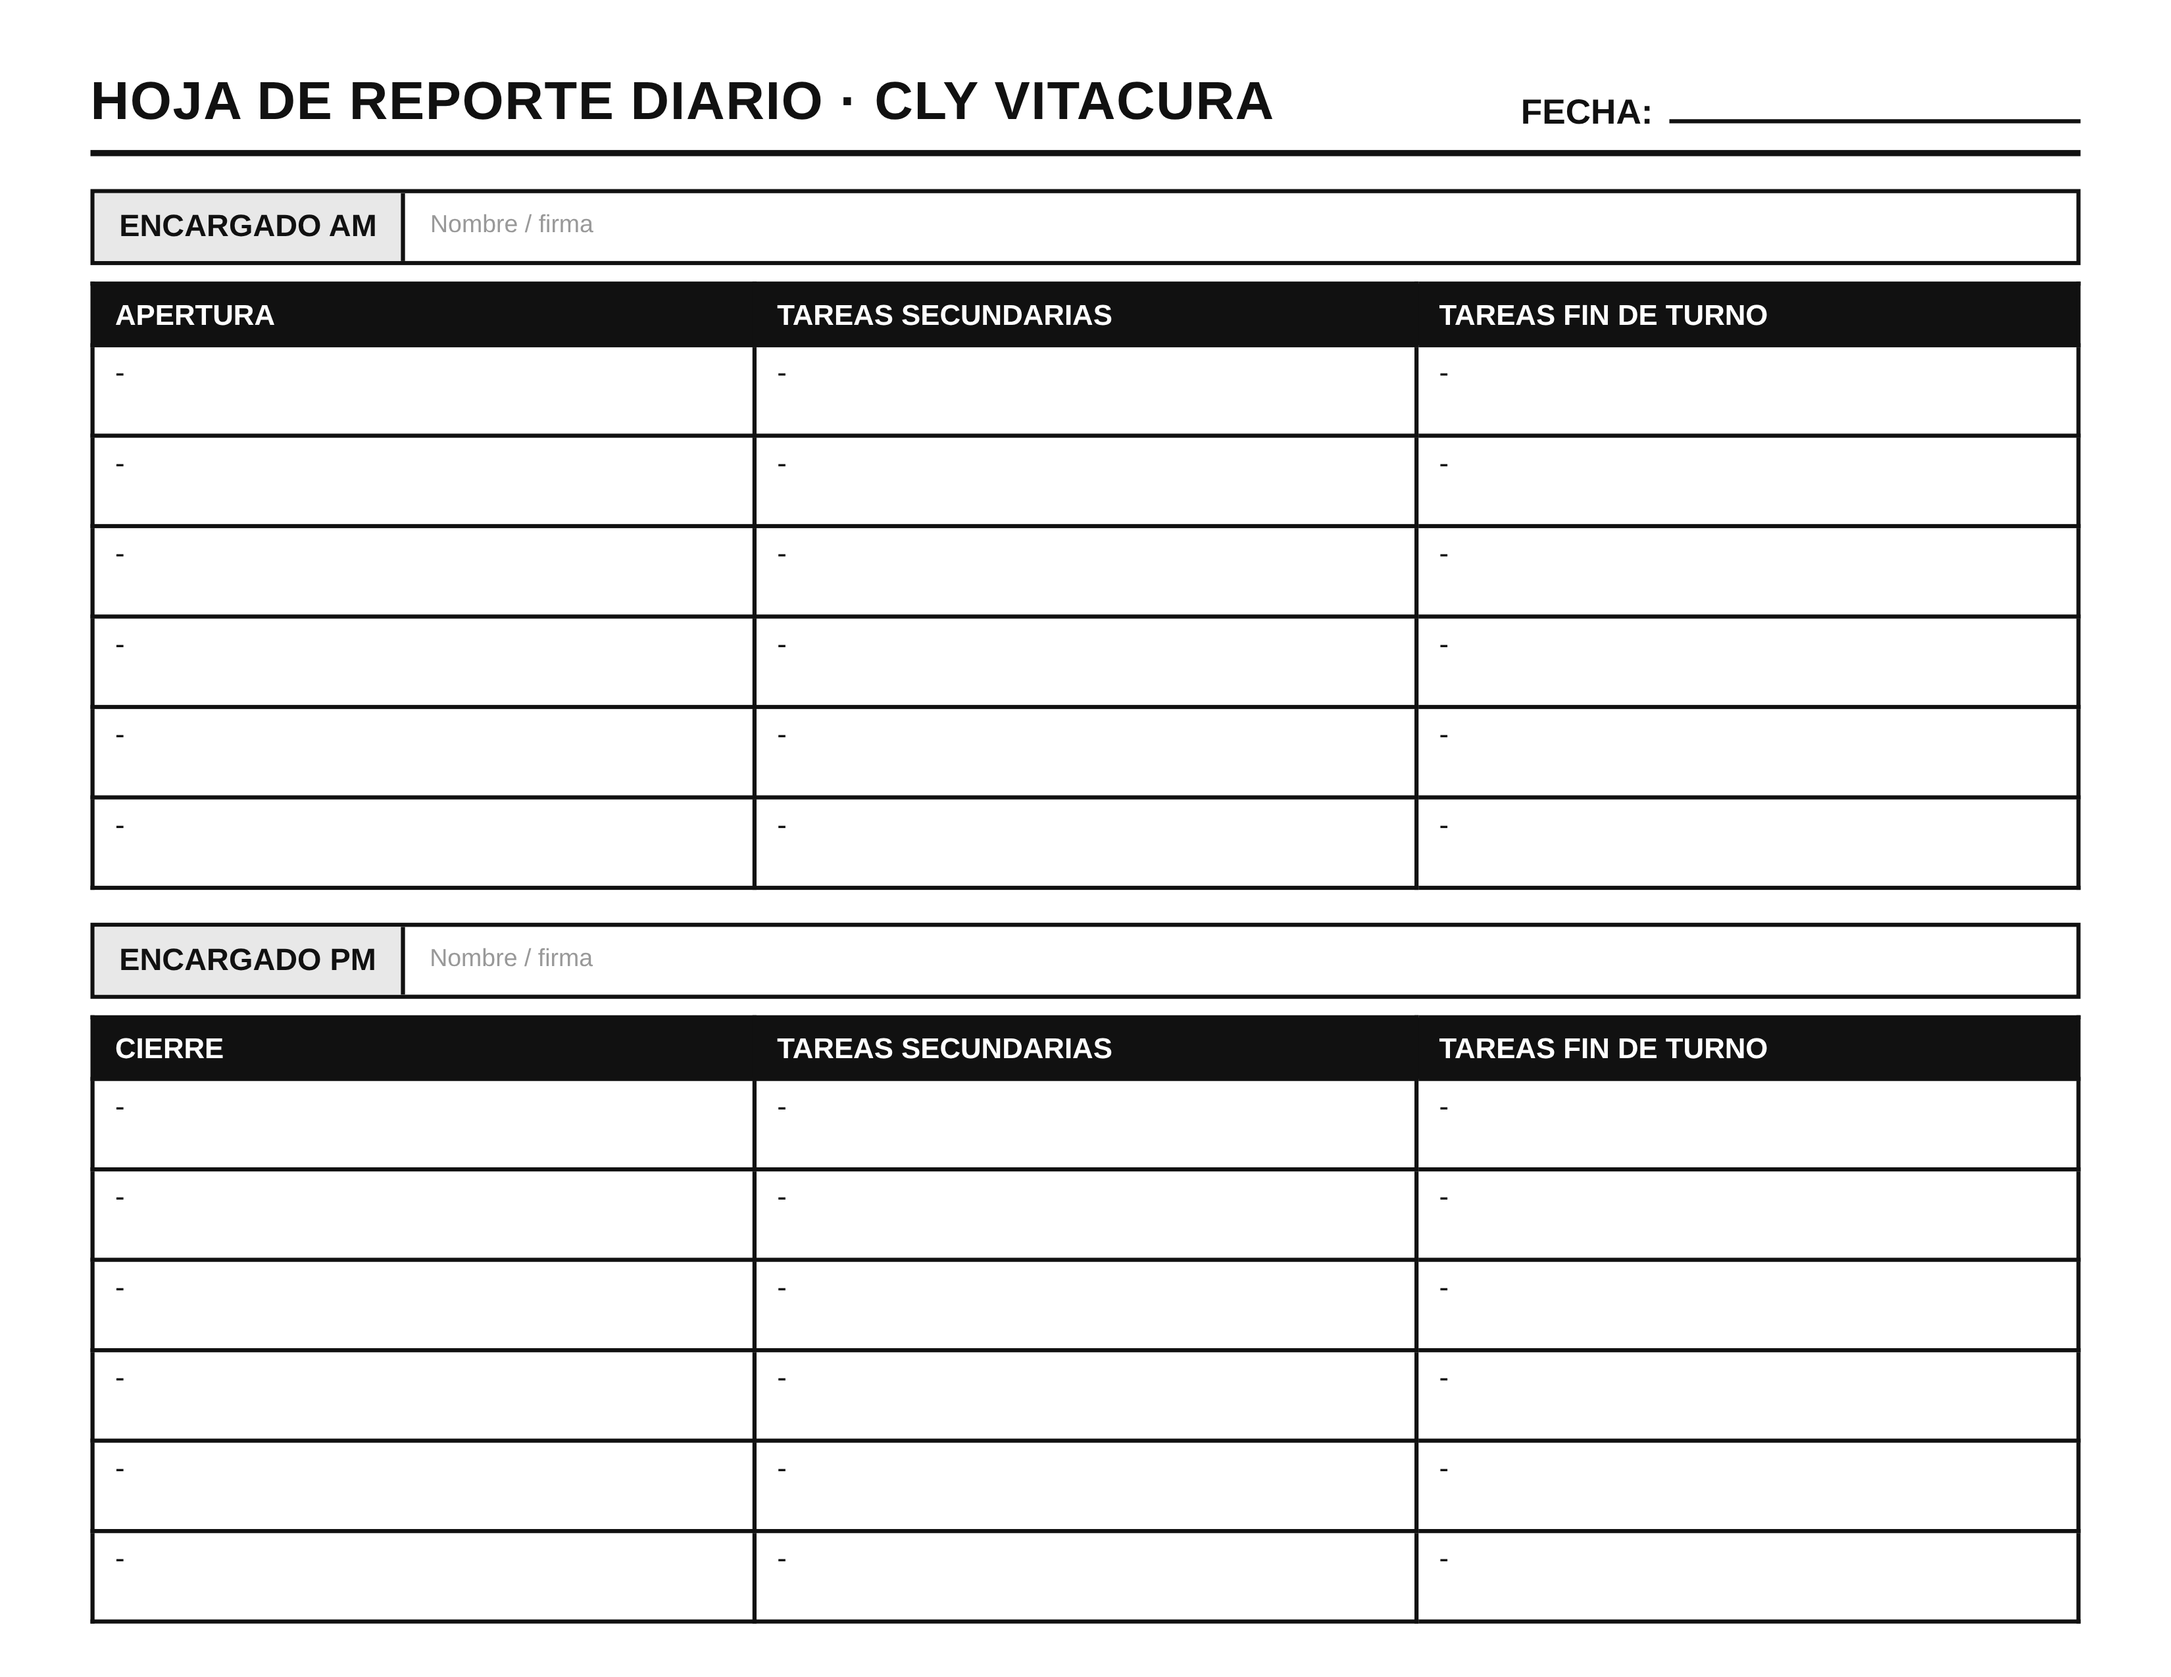
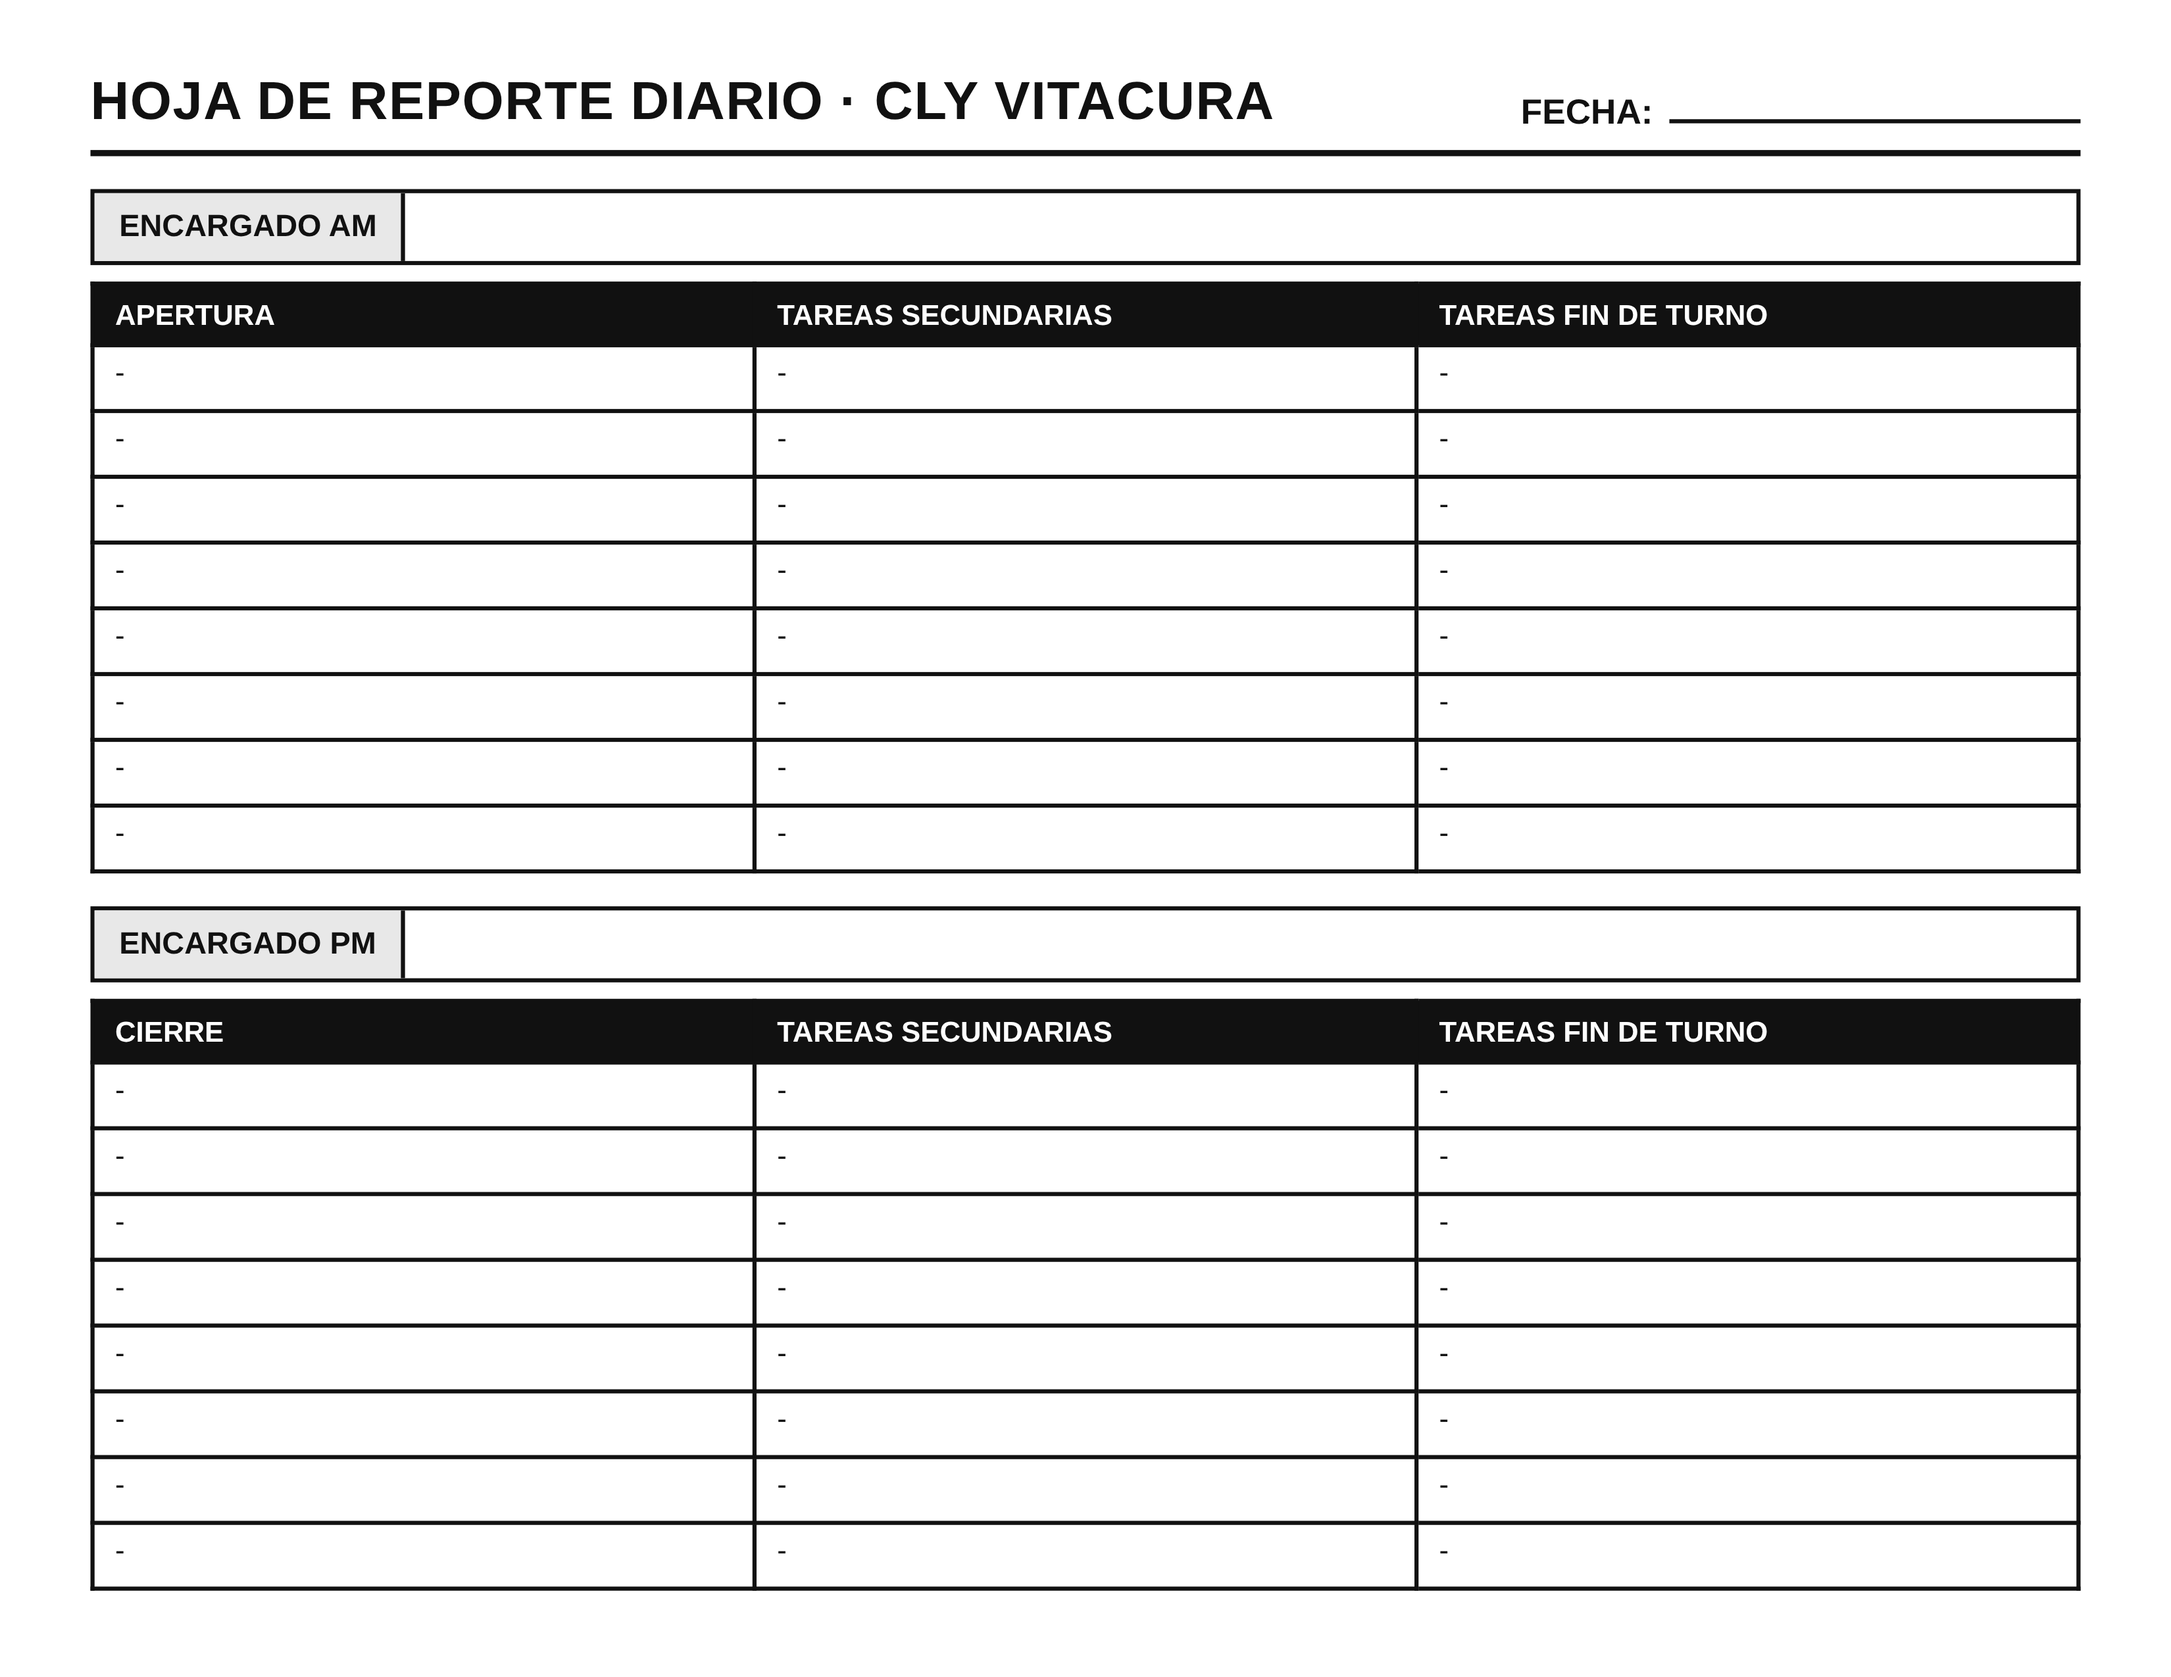
Report sheet: remove name/signature hint, 8 rows per table
Claude-Session: https://claude.ai/code/session_0141iZXTobA2khUJKABPBsF2

diff --git a/reporte/reporte_carta.html b/reporte/reporte_carta.html
@@ -10,12 +10,12 @@ h1{margin:0;font-size:26px;letter-spacing:.5px}
 .enc div{flex:1;padding:8px 12px;color:#999;font-size:12px}
 table{width:100%;border-collapse:collapse;margin-top:8px;table-layout:fixed}
 th{background:#111;color:#fff;font-size:14px;padding:6px 10px;text-align:left;border:2px solid #111}
-td{border:2px solid #111;height:44px;padding:4px 10px;font-size:14px;vertical-align:top}
+td{border:2px solid #111;height:32px;padding:4px 10px;font-size:14px;vertical-align:top}
 td:before{content:"- "}
 </style></head><body><div class="page">
 <div class="top"><h1>HOJA DE REPORTE DIARIO · CLY VITACURA</h1><div class="fecha">FECHA:<span></span></div></div>
-<div class="enc"><b>ENCARGADO AM</b><div>Nombre / firma</div></div>
-<table><tr><th>APERTURA</th><th>TAREAS SECUNDARIAS</th><th>TAREAS FIN DE TURNO</th></tr><tr><td></td><td></td><td></td></tr><tr><td></td><td></td><td></td></tr><tr><td></td><td></td><td></td></tr><tr><td></td><td></td><td></td></tr><tr><td></td><td></td><td></td></tr><tr><td></td><td></td><td></td></tr></table>
-<div class="enc"><b>ENCARGADO PM</b><div>Nombre / firma</div></div>
-<table><tr><th>CIERRE</th><th>TAREAS SECUNDARIAS</th><th>TAREAS FIN DE TURNO</th></tr><tr><td></td><td></td><td></td></tr><tr><td></td><td></td><td></td></tr><tr><td></td><td></td><td></td></tr><tr><td></td><td></td><td></td></tr><tr><td></td><td></td><td></td></tr><tr><td></td><td></td><td></td></tr></table>
+<div class="enc"><b>ENCARGADO AM</b><div></div></div>
+<table><tr><th>APERTURA</th><th>TAREAS SECUNDARIAS</th><th>TAREAS FIN DE TURNO</th></tr><tr><td></td><td></td><td></td></tr><tr><td></td><td></td><td></td></tr><tr><td></td><td></td><td></td></tr><tr><td></td><td></td><td></td></tr><tr><td></td><td></td><td></td></tr><tr><td></td><td></td><td></td></tr><tr><td></td><td></td><td></td></tr><tr><td></td><td></td><td></td></tr></table>
+<div class="enc"><b>ENCARGADO PM</b><div></div></div>
+<table><tr><th>CIERRE</th><th>TAREAS SECUNDARIAS</th><th>TAREAS FIN DE TURNO</th></tr><tr><td></td><td></td><td></td></tr><tr><td></td><td></td><td></td></tr><tr><td></td><td></td><td></td></tr><tr><td></td><td></td><td></td></tr><tr><td></td><td></td><td></td></tr><tr><td></td><td></td><td></td></tr><tr><td></td><td></td><td></td></tr><tr><td></td><td></td><td></td></tr></table>
 </div></body></html>
